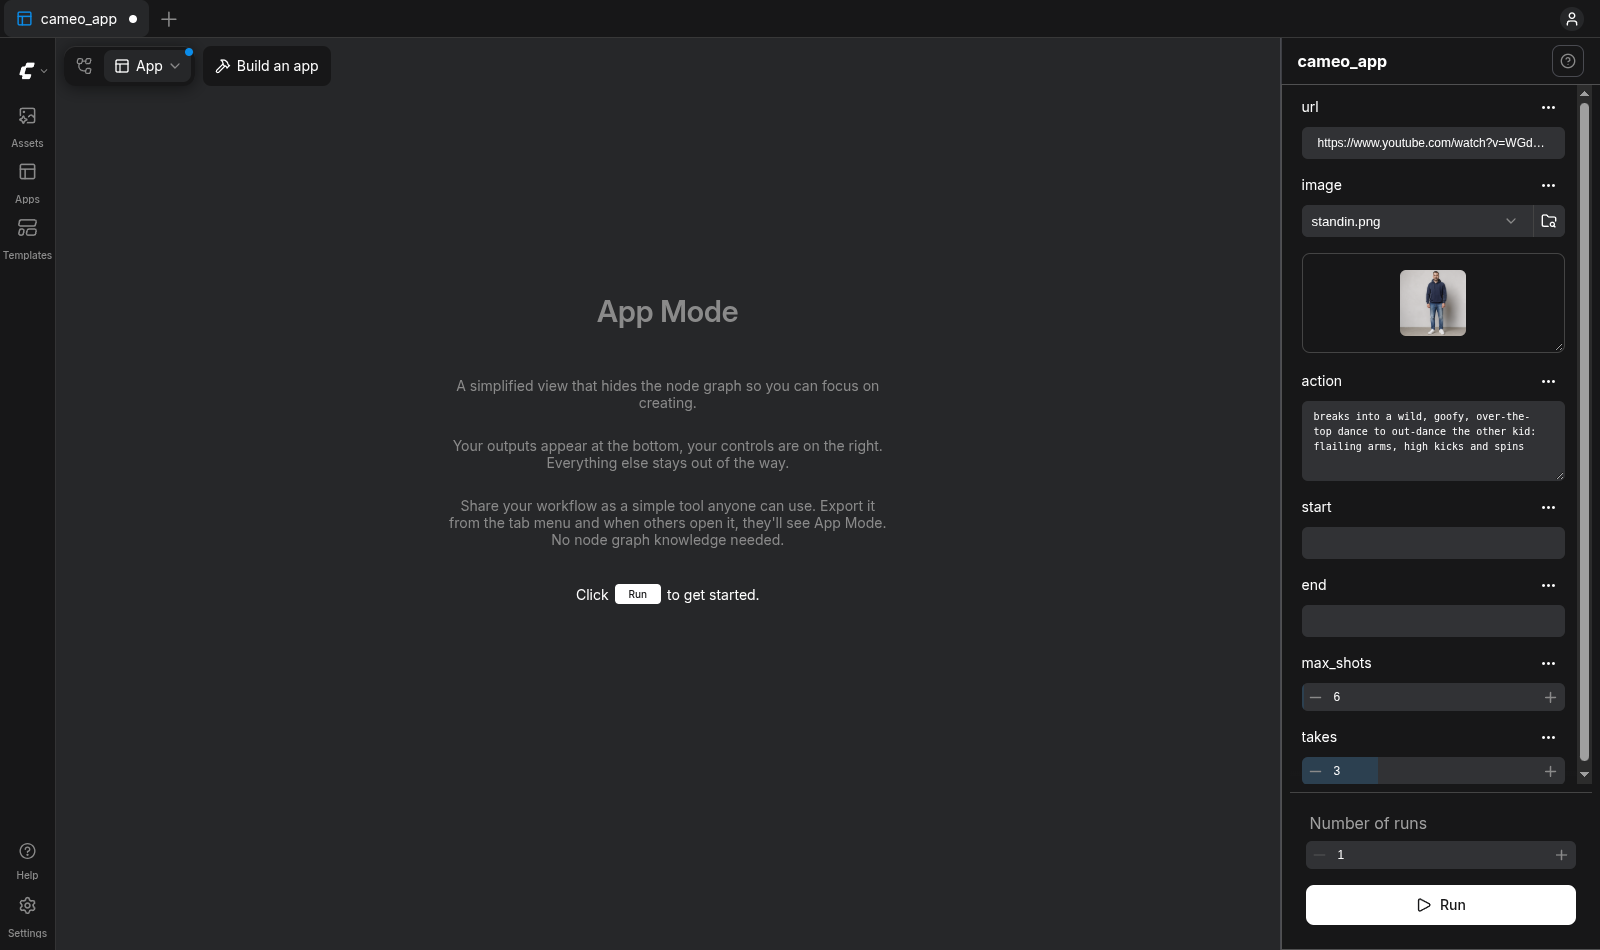
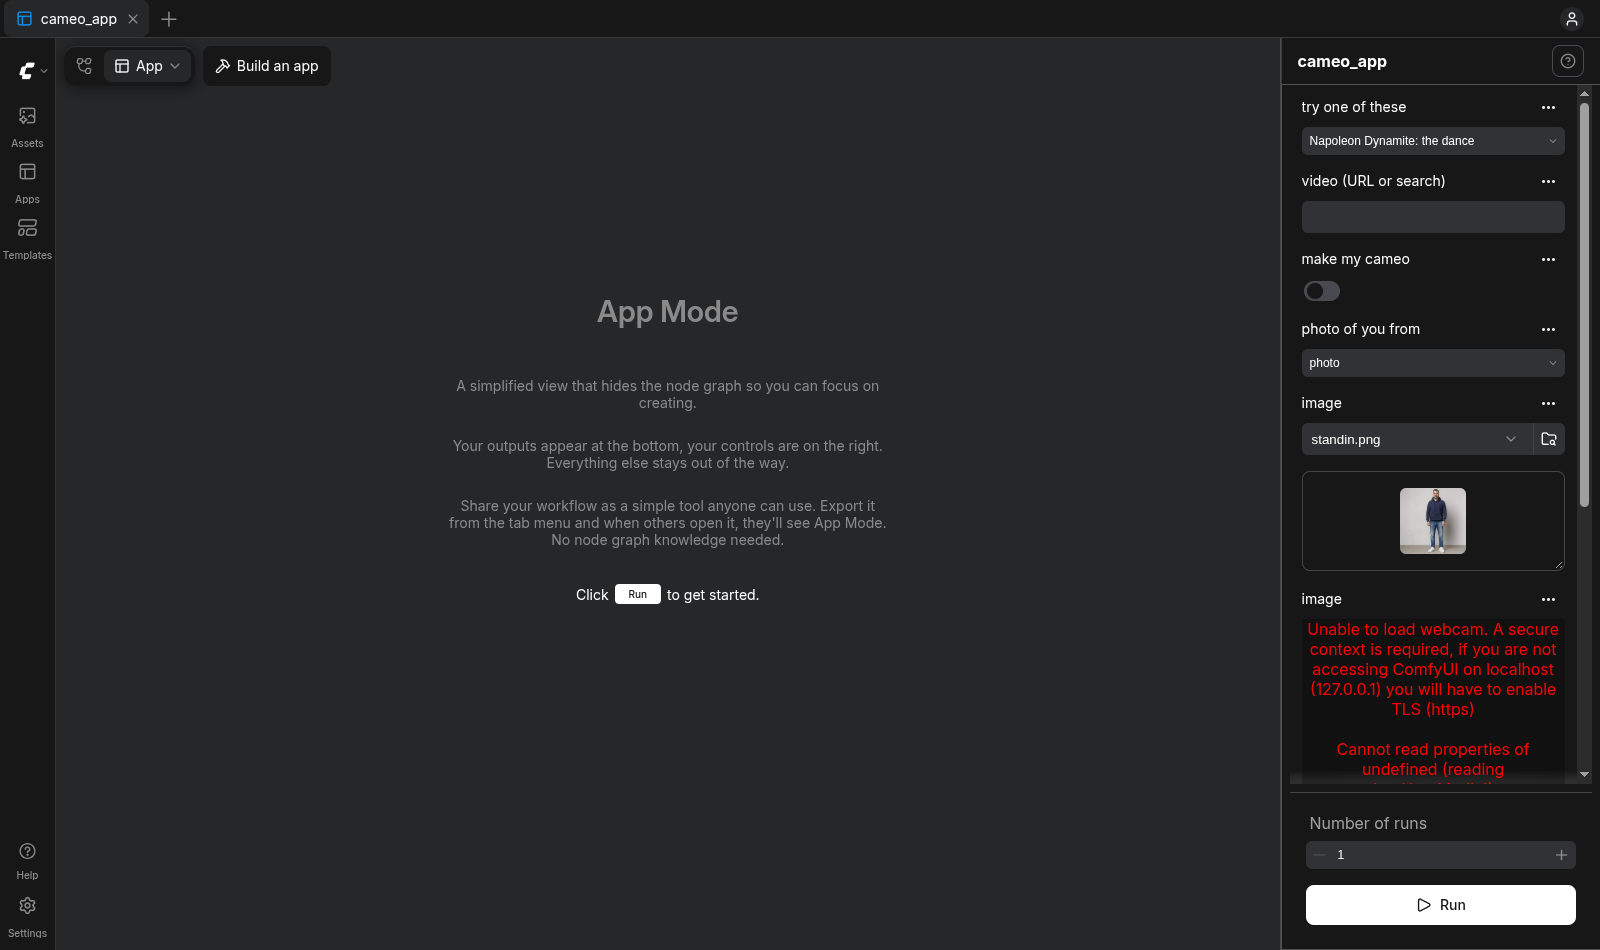
Fast previews, casting fallback, webcam app workflow
- Previews load no models: constant prompts route through Cameo Cast, so the
  ExecutionBlocker stops the text encoders too (cold preview 106 s -> 16 s).
- Fetch whole 144p HTTPS formats and trim locally; HLS sections were slow.
- Cast falls back to the roomiest non-close-up shots when none clears the bar.
- App Mode workflow: suggestions, search, make-my-cameo toggle (off), photo or webcam.

Claude-Session: https://claude.ai/code/session_01WrQ2DxVGgjGvV8Z2unbntU

Changed region(s): [[0.8125, 0.0916, 1.0, 0.8242]]

diff --git a/comfyui_cameo/cast.py b/comfyui_cameo/cast.py
@@ -35,6 +35,9 @@ def _ask(image, questions):
     return _d1().system_one(None, questions, media=[_pil(image)])["answers"]
 
 
+# Routed through Cast (not typed into the text encoders) so a preview-only run loads no models.
+VIDEO_NEGATIVE = "pc game, console game, video game, cartoon, childish, ugly"
+
 SHOT = {
     "framing": {"type": "choice", "instructions": "How is this shot framed?",
                 "criteria": {"wide": "Full bodies and plenty of the setting are visible",
@@ -178,6 +181,9 @@ class CameoCast(io.ComfyNode):
                 io.Int.Output(display_name="width"),
                 io.Int.Output(display_name="height"),
                 io.Float.Output(display_name="fps"),
+                io.String.Output(display_name="insert_negative"),
+                io.String.Output(display_name="video_negative"),
+                io.String.Output(display_name="find_people"),
             ],
         )
 
@@ -185,25 +191,30 @@ class CameoCast(io.ComfyNode):
     def execute(cls, video, shots, make_cameo, person, action, max_shots, max_frames, min_frames, takes,
                 seed, hint=None) -> io.NodeOutput:
         if not make_cameo:
-            return io.NodeOutput(*[ExecutionBlocker(None)] * 11)
+            return io.NodeOutput(*[ExecutionBlocker(None)] * 14)
         action = action.strip() or (json.loads(hint).get("action") if hint else "") or "dances along, goofy and over the top"
         comp = video.get_components()
         frames, fps = comp.images, float(comp.frame_rate)
         H, W = frames.shape[1:3]
         desc, pronoun = describe(person[0])
-        judged = []
+        judged, fallback = [], []
         for s, e in json.loads(shots):
             n = min(max_frames, e - s)
             n = n - (n - 1) % 8
             if n < min_frames:
                 continue
             a = _ask(frames[s], SHOT)
+            score = (a["room"]["noul"] * n, s, n, a)
             if cast_ok(a):
-                judged.append((a["room"]["noul"] * n, s, n, a))
-        judged.sort(reverse=True)
-        picked = sorted(judged[:max_shots], key=lambda j: j[1])
+                judged.append(score)
+            elif a["framing"]["choice"] != "closeup":
+                fallback.append(score)
+        # No shot clears the bar: take the roomiest non-close-ups rather than give up.
+        pool = judged or fallback
+        pool.sort(key=lambda j: j[0], reverse=True)
+        picked = sorted(pool[:max_shots], key=lambda j: j[1])
         if not picked:
-            raise ValueError("The decision model found no shot with room for one more person.")
+            raise ValueError("The decision model found no wide or medium shot in this video. Try another clip.")
         out = {k: [] for k in ("windows", "first", "insert", "video", "regions", "counts", "seeds")}
         plan = {"desc": desc, "shots": []}
         for i, (_, s, n, a) in enumerate(picked):
@@ -219,4 +230,5 @@ class CameoCast(io.ComfyNode):
                 plan["shots"].append({"shot": i, "take": take, "start": s, "frames": n, "box": box, "region": region,
                                       "framing": a["framing"]["choice"], "room": round(a["room"]["noul"], 3)})
         return io.NodeOutput(out["windows"], out["first"], out["insert"], out["video"], out["regions"],
-                             out["counts"], out["seeds"], json.dumps(plan), W, H, fps)
+                             out["counts"], out["seeds"], json.dumps(plan), W, H, fps,
+                             "", VIDEO_NEGATIVE, "person")

diff --git a/cameo/graphs.py b/cameo/graphs.py
@@ -135,6 +135,7 @@ def cameo_app(url, photo, action="", start="", end="", max_shots=4, make_cameo=T
                  max_shots=max_shots, max_frames=max_frames, min_frames=17, takes=takes, seed=seed)
     windows, firsts, inserts, vprompts, regions, counts, seeds = (cast(i) for i in range(7))
     plan, W, H, FPS = cast(7), cast(8), cast(9), cast(10)
+    kneg_text, lneg_text, people_text = cast(11), cast(12), cast(13)
 
     # FLUX 3 Klein: you, inserted into each cast shot's first frame
     unet = g.add("UNETLoader", unet_name=KLEIN, weight_dtype="default")
@@ -143,7 +144,7 @@ def cameo_app(url, photo, action="", start="", end="", max_shots=4, make_cameo=T
     mu = math.log(16.0)
     kmodel = g.add("ModelSamplingFlux", model=unet(), max_shift=mu, base_shift=mu, width=W, height=H)
     kpos = g.add("CLIPTextEncode", clip=kclip(), text=inserts)
-    kneg = g.add("CLIPTextEncode", clip=kclip(), text="")
+    kneg = g.add("CLIPTextEncode", clip=kclip(), text=kneg_text)
     ref = g.add("ReferenceMultiLatent", positive=kpos(), negative=kneg(), vae=kvae(), resolution="resize",
                 **{"resolution.megapixels": 0.07, "images.image0": firsts, "images.image1": person(0)})
     klat = g.add("EmptyFlux2LatentImage", width=W, height=H, batch_size=1)
@@ -161,7 +162,7 @@ def cameo_app(url, photo, action="", start="", end="", max_shots=4, make_cameo=T
     av = g.add("LTXVConcatAVLatent", video_latent=masked(), audio_latent=audio())
     lclip = g.add("CLIPLoader", clip_name=LTX_TE, type="ltxv", device="default")
     lpos = g.add("CLIPTextEncode", clip=lclip(), text=vprompts)
-    lneg = g.add("CLIPTextEncode", clip=lclip(), text="pc game, console game, video game, cartoon, childish, ugly")
+    lneg = g.add("CLIPTextEncode", clip=lclip(), text=lneg_text)
     cond = g.add("LTXVConditioning", positive=lpos(), negative=lneg(), frame_rate=FPS)
     lmodel = g.add("UNETLoader", unet_name=LTX, weight_dtype="default")
     guider = g.add("CFGGuider", model=lmodel(), positive=cond(0), negative=cond(1), cfg=1.0)
@@ -173,7 +174,7 @@ def cameo_app(url, photo, action="", start="", end="", max_shots=4, make_cameo=T
 
     # SAM3: the new person's matte, and the original people who stay in front
     sam = g.add("CheckpointLoaderSimple", ckpt_name=SAM3)
-    who = g.add("CLIPTextEncode", clip=sam(1), text="person")
+    who = g.add("CLIPTextEncode", clip=sam(1), text=people_text)
     cameo = g.add("SAM3_Detect", model=sam(0), image=gen(), conditioning=who(), threshold=0.25,
                   refine_iterations=2, individual_masks=False)
     people = g.add("SAM3_Detect", model=sam(0), image=windows, conditioning=who(), threshold=0.4,

diff --git a/comfyui_cameo/media.py b/comfyui_cameo/media.py
@@ -95,18 +95,17 @@ class CameoFetch(io.ComfyNode):
             raise ValueError("Pick a suggestion, or type a video URL or search words.")
         work = tempfile.mkdtemp(prefix="cameo_", dir=folder_paths.get_temp_directory())
         raw = os.path.join(work, "raw.mp4")
-        cmd = [sys.executable, "-m", "yt_dlp", "-q", "--no-warnings", "-f", "worstvideo[height>=144]+worstaudio/worst[height>=144]/worst",
+        cmd = [sys.executable, "-m", "yt_dlp", "-q", "--no-warnings", "-f", "worstvideo[height>=144][protocol=https]+worstaudio[protocol=https]/worstvideo[height>=144]+worstaudio/worst",
                "--merge-output-format", "mp4", "--ffmpeg-location", _ffmpeg(), "-o", raw, "--force-overwrites",
                "--no-simulate", "--print", "%(title)s (%(duration_string)s)", "--print-to-file", "%(title)s",
                os.path.join(work, "title.txt")]
-        if start or end:
-            cmd += ["--download-sections", f"*{start or '0'}-{end or 'inf'}"]
         query = url.strip()
         if not query.lower().startswith(("http://", "https://")):
             query = f"ytsearch1:{query}"
         _run(cmd + [query])
         clip = os.path.join(work, "clip.mp4")
-        _run([_ffmpeg(), "-v", "error", "-y", "-i", raw, "-vf", f"fps={fps},scale=-2:{height}:flags=area,"
+        trim = (["-ss", start] if start else []) + (["-to", end] if end else [])
+        _run([_ffmpeg(), "-v", "error", "-y", *trim, "-i", raw, "-vf", f"fps={fps},scale=-2:{height}:flags=area,"
               f"crop=trunc(iw/32)*32:{height}", "-c:v", "libx264", "-crf", "18", "-pix_fmt", "yuv420p",
               "-c:a", "aac", clip])
         shots = _shots(clip, cut_threshold, 6)

diff --git a/cameo/fetch.py b/cameo/fetch.py
@@ -34,7 +34,7 @@ def fetch(url, out, start=None, end=None, height=HEIGHT, fps=FPS):
     out = Path(out)
     out.mkdir(parents=True, exist_ok=True)
     raw = out / "raw.mp4"
-    cmd = ["yt-dlp", "-f", "worstvideo[height>=144]+worstaudio/worst[height>=144]/worst",
+    cmd = ["yt-dlp", "-f", "worstvideo[height>=144][protocol=https]+worstaudio[protocol=https]/worstvideo[height>=144]+worstaudio/worst",
            "--merge-output-format", "mp4", "--quiet", "--no-warnings", "-o", str(raw), "--force-overwrites"]
     if start or end:
         cmd += ["--download-sections", f"*{start or '0'}-{end or 'inf'}"]

diff --git a/cameo/ui.py b/cameo/ui.py
@@ -4,12 +4,13 @@ using comfy-cli's own edit ops so node layouts and widgets match the live catalo
     python -m cameo.ui workflows/cameo_insert_api.json workflows/cameo_insert.json
 """
 import json
+import os
 import subprocess
 import sys
 
 EMPTY = {"last_node_id": 0, "last_link_id": 0, "nodes": [], "links": [], "groups": [],
          "config": {}, "extra": {}, "version": 0.4}
-CATALOG = ["--where", "local", "--host", "127.0.0.1", "--port", "8188"]
+CATALOG = ["--where", "local", "--host", os.environ.get("COMFY_HOST", "127.0.0.1"), "--port", "8188"]
 
 
 def op(*args):
